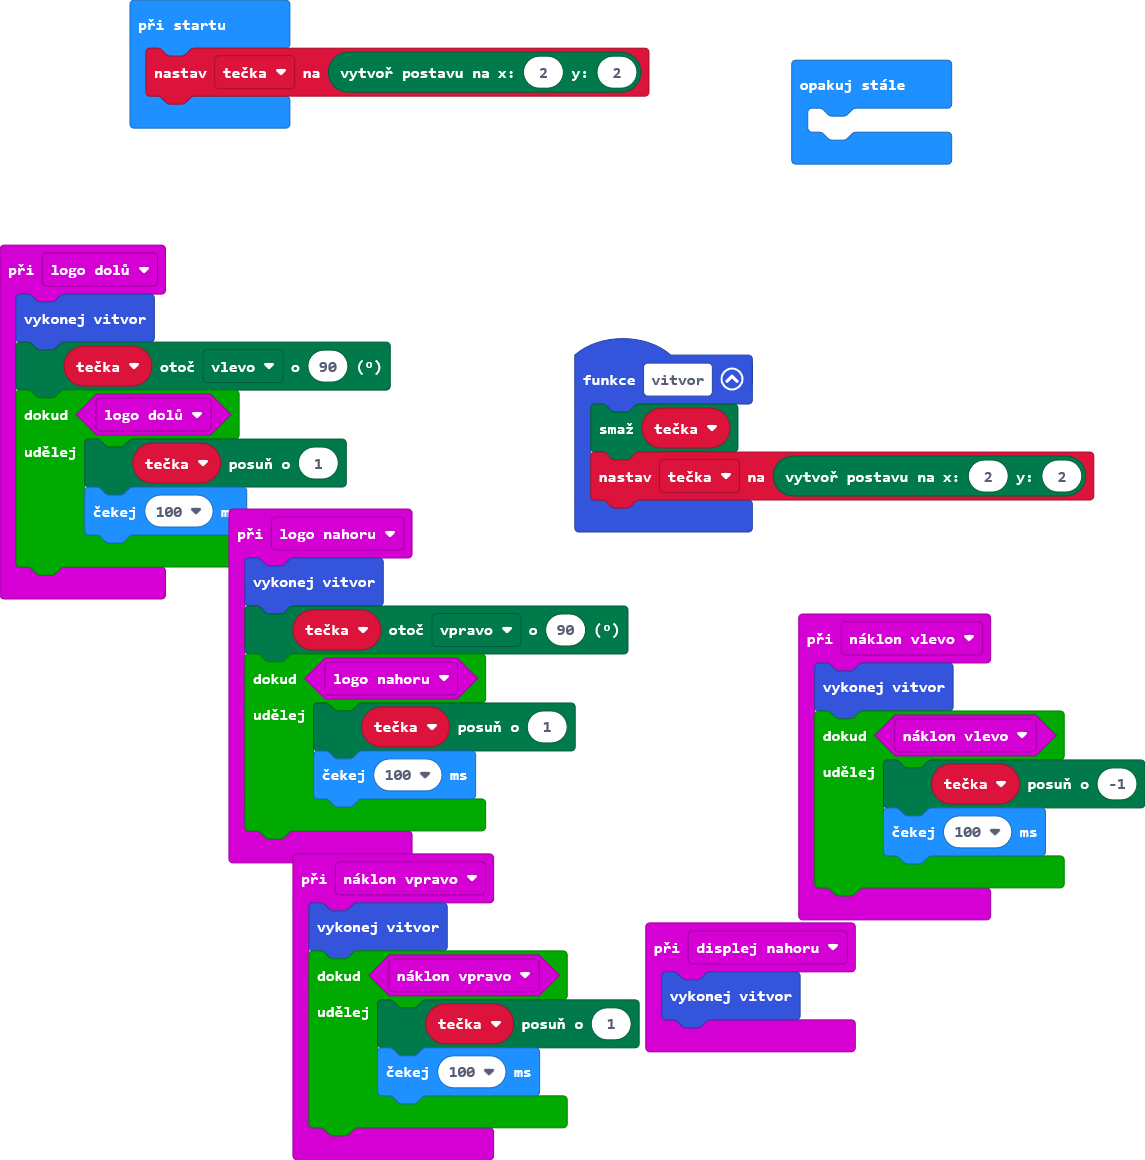
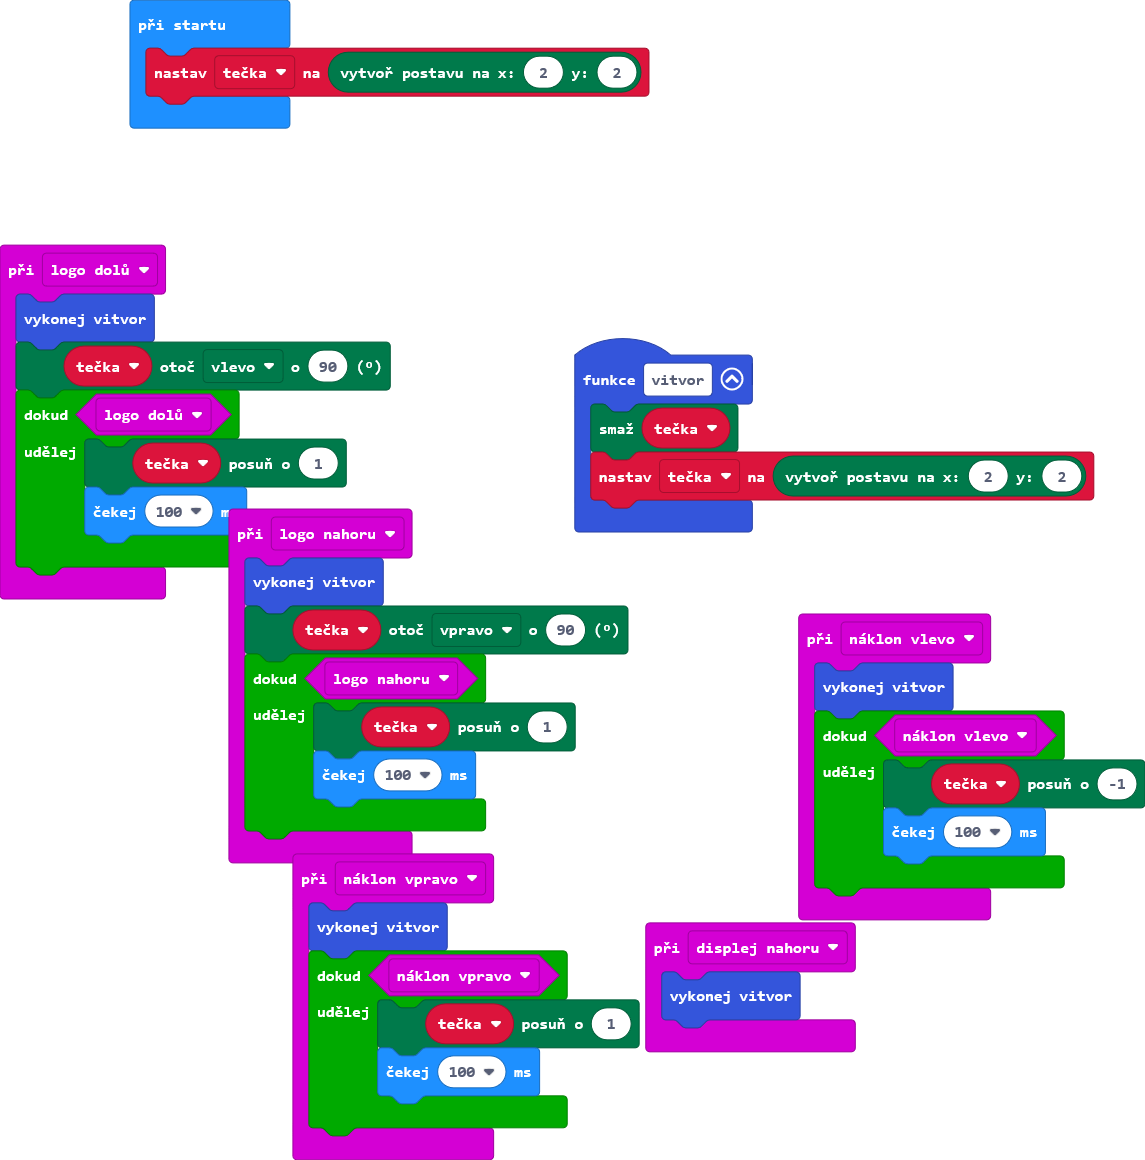
Aktualizovat main.blocks, main.ts

Changed region(s): [[0.6725, 0.031, 0.8559, 0.1552]]

diff --git a/main.ts b/main.ts
@@ -37,6 +37,3 @@ input.onGesture(Gesture.LogoUp, function () {
 })
 let tečka: game.LedSprite = null
 tečka = game.createSprite(2, 2)
-basic.forever(function () {
-	
-})
